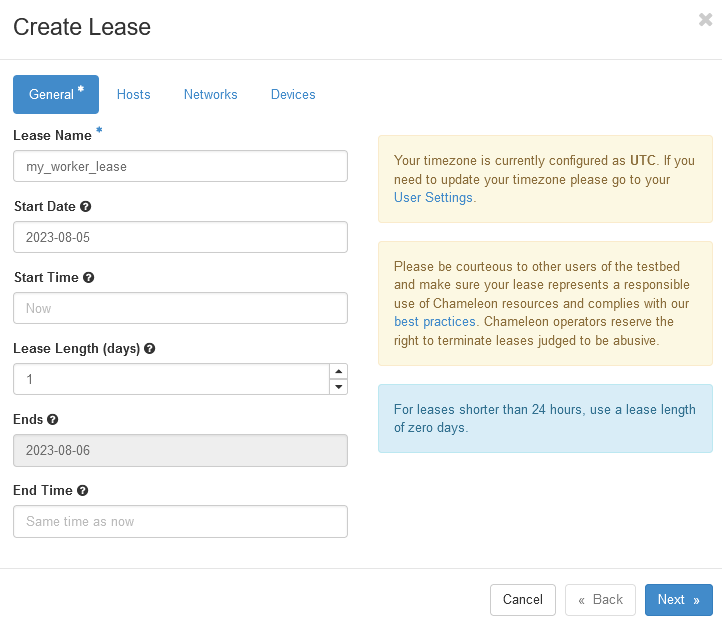
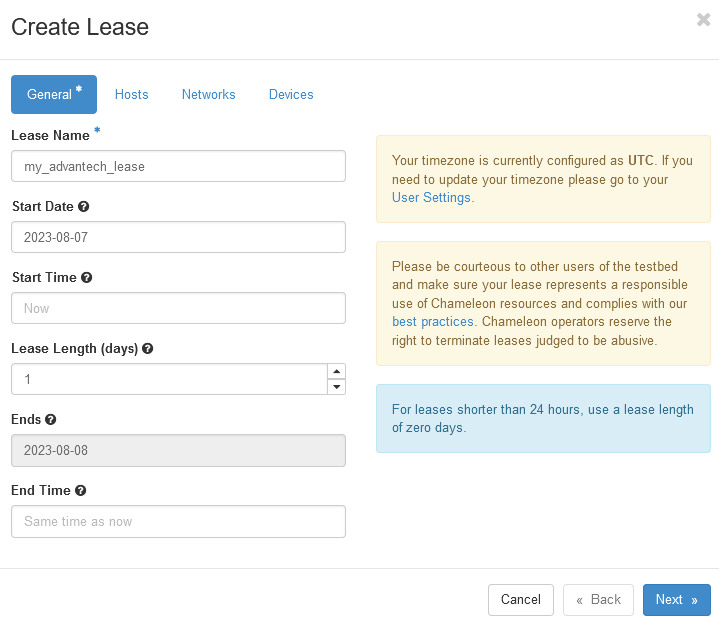
modified:   source/contents.rst 	modified:   source/reservation-advantech/create_lease01.png 	modified:   source/reservation-advantech/create_lease02.png 	deleted:    source/reservation-advantech/device_calendar.png 	new file:   source/reservation-advantech/hw_discovery_advantech.png 	new file:   so

diff --git a/source/reservation-advantech/index.rst b/source/reservation-advantech/index.rst
@@ -1,30 +1,29 @@
-.. _reservation-worker:
+.. _reservation-advantech:
 
-============================
-Reservation of a worker node
-============================
+==================================
+Reservation of an Advantech router
+==================================
 
-This guide will walk you through the steps of looking up worker node resources and
-reserving a worker node.
+This guide will walk you through the steps of looking up Advantech router resources and
+reserving a router.
 
 Step 1: Check Hardware discovery
 ================================
 
 * From the ExPECA home page, click *Hardware discovery*
-* Look up a worker node that satisfies your requirements
+* Look up an Advantech router that satisfies your requirements. Note the "segment ID" for the router. You will use it later to make your reservation.
 
-.. figure:: hw_discovery_worker.png
-  :alt: Hardware discovery, worker node
+.. figure:: hw_discovery_advantech.png
+  :alt: Hardware discovery, Advantech router
   :figclass: screenshot
 
-Step 2: Reserving a worker node
-===============================
+Step 2: Reserving an Advantech router
+=====================================
 
-We need to reserve a worker node for our use. ExPECA provides access to allocate and run
-Docker containerized applications on nodes.
-When you create a reservation for one or more nodes, only you
-and other users on your project will be able to use those nodes for the time
-specified. We will create a single day reservation for a worker node.
+We need to reserve an Advantech router for our use.
+When you create a reservation for one or more Advantech routers, only you
+and other users on your project will be able to use those routers for the time
+specified. We will create a single day reservation for an Advantech router.
 
 * In the sidebar, click *Reservations* -> *Leases*
 
@@ -32,28 +31,29 @@ specified. We will create a single day reservation for a worker node.
   :alt: Main lease view
   :figclass: screenshot
 
-* Click *Device Calendar*. This shows the current worker node reservations in the system. Make sure the worker node
+* Click *Network Calendar*. This shows the current Advantech router reservations (identified by "segment ID") in the system. Make sure the Advantech router
   you want is not reserved for the time you need it.
 
-.. figure:: device_calendar.png
-  :alt: Device calendar
+.. figure:: network_calendar.png
+  :alt: Network calendar
   :figclass: screenshot
 
 * Go back to the main lease page
 * Click on the *+ Create Lease* button in the toolbar
-* Type *my_worker_lease* for the lease name (or any name you want to call it)
+* Type *my_advantech_lease* for the lease name (or any name you want to call it)
 * Make sure you always select a Start Date
 
 .. figure:: create_lease01.png
   :alt: Create lease, image 1
   :figclass: screenshot
 
-* Check the *Devices* -> *Reserve Devices* box
-* Find the *Devices* -> *Resource Properties* section. In the dropdown below *machine_name*, select the worker node you want
-* Click the *Create* button
+* Check the *Networks* -> *Reserve Network* box
+* Type *advantech01_network* for the network name (or any name you want to call it, depending on which SDR you want)
+* Find the *Networks* -> *Resource Properties* section. In the dropdown below *vlan_id*, select the "segment ID" you have for the Advantech router you want.
+* Click the *Next* button, and then *Create*
 
 .. figure:: create_lease02.png
-  :alt: The Create Lease dialog
+  :alt: The Create Lease, image 2
   :figclass: screenshot
 
 The reservation will start shortly, at which point you can continue.

diff --git a/source/reservation-sdr/index.rst b/source/reservation-sdr/index.rst
@@ -22,7 +22,7 @@ Step 2: Reserving an SDR
 
 We need to reserve an SDR for our use.
 When you create a reservation for one or more SDR units, only you
-and other users on your project will be able to use those nodes for the time
+and other users on your project will be able to use those SDR units for the time
 specified. We will create a single day reservation for an SDR.
 
 * In the sidebar, click *Reservations* -> *Leases*

diff --git a/source/contents.rst b/source/contents.rst
@@ -15,5 +15,6 @@ Welcome to ExPECA
 
    reservation-worker/index
    reservation-sdr/index
+   reservation-advantech/index
    container-basic/index
 
